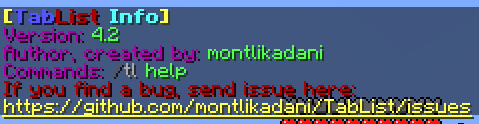
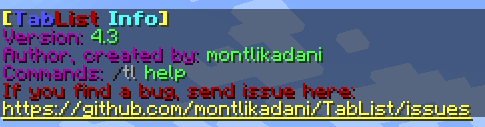
Supports 1.14

diff --git a/src/hu/montlikadani/TabList/bukkit/API/TabListAPI.java b/src/hu/montlikadani/TabList/bukkit/API/TabListAPI.java
@@ -10,6 +10,7 @@ import hu.montlikadani.FakePlayer.FakePlayer_1_11_R1;
 import hu.montlikadani.FakePlayer.FakePlayer_1_12_R1;
 import hu.montlikadani.FakePlayer.FakePlayer_1_13_R1;
 import hu.montlikadani.FakePlayer.FakePlayer_1_13_R2;
+import hu.montlikadani.FakePlayer.FakePlayer_1_14_R1;
 import hu.montlikadani.FakePlayer.FakePlayer_1_8_R3;
 import hu.montlikadani.FakePlayer.FakePlayer_1_9_R2;
 import hu.montlikadani.tablist.FakePlayer;
@@ -32,7 +33,7 @@ public class TabListAPI {
 	}
 
 	/**
-	 * Sending the tab header and footer to player
+	 * Sends the tab header and footer to player
 	 * 
 	 * @param player Player
 	 * @param string Header
@@ -71,6 +72,8 @@ public class TabListAPI {
 			fp = new FakePlayer_1_13_R1();
 		} else if (version.equals("v1_13_R2")) {
 			fp = new FakePlayer_1_13_R2();
+		} else if (version.equals("v1_14_R1")) {
+			fp = new FakePlayer_1_14_R1();
 		}
 		fp.create(TabList.getInstance().colorMsg(name));
 	}
@@ -101,6 +104,8 @@ public class TabListAPI {
 			fp = new FakePlayer_1_13_R1();
 		} else if (version.equals("v1_13_R2")) {
 			fp = new FakePlayer_1_13_R2();
+		} else if (version.equals("v1_14_R1")) {
+			fp = new FakePlayer_1_14_R1();
 		}
 		fp.remove(name);
 	}
